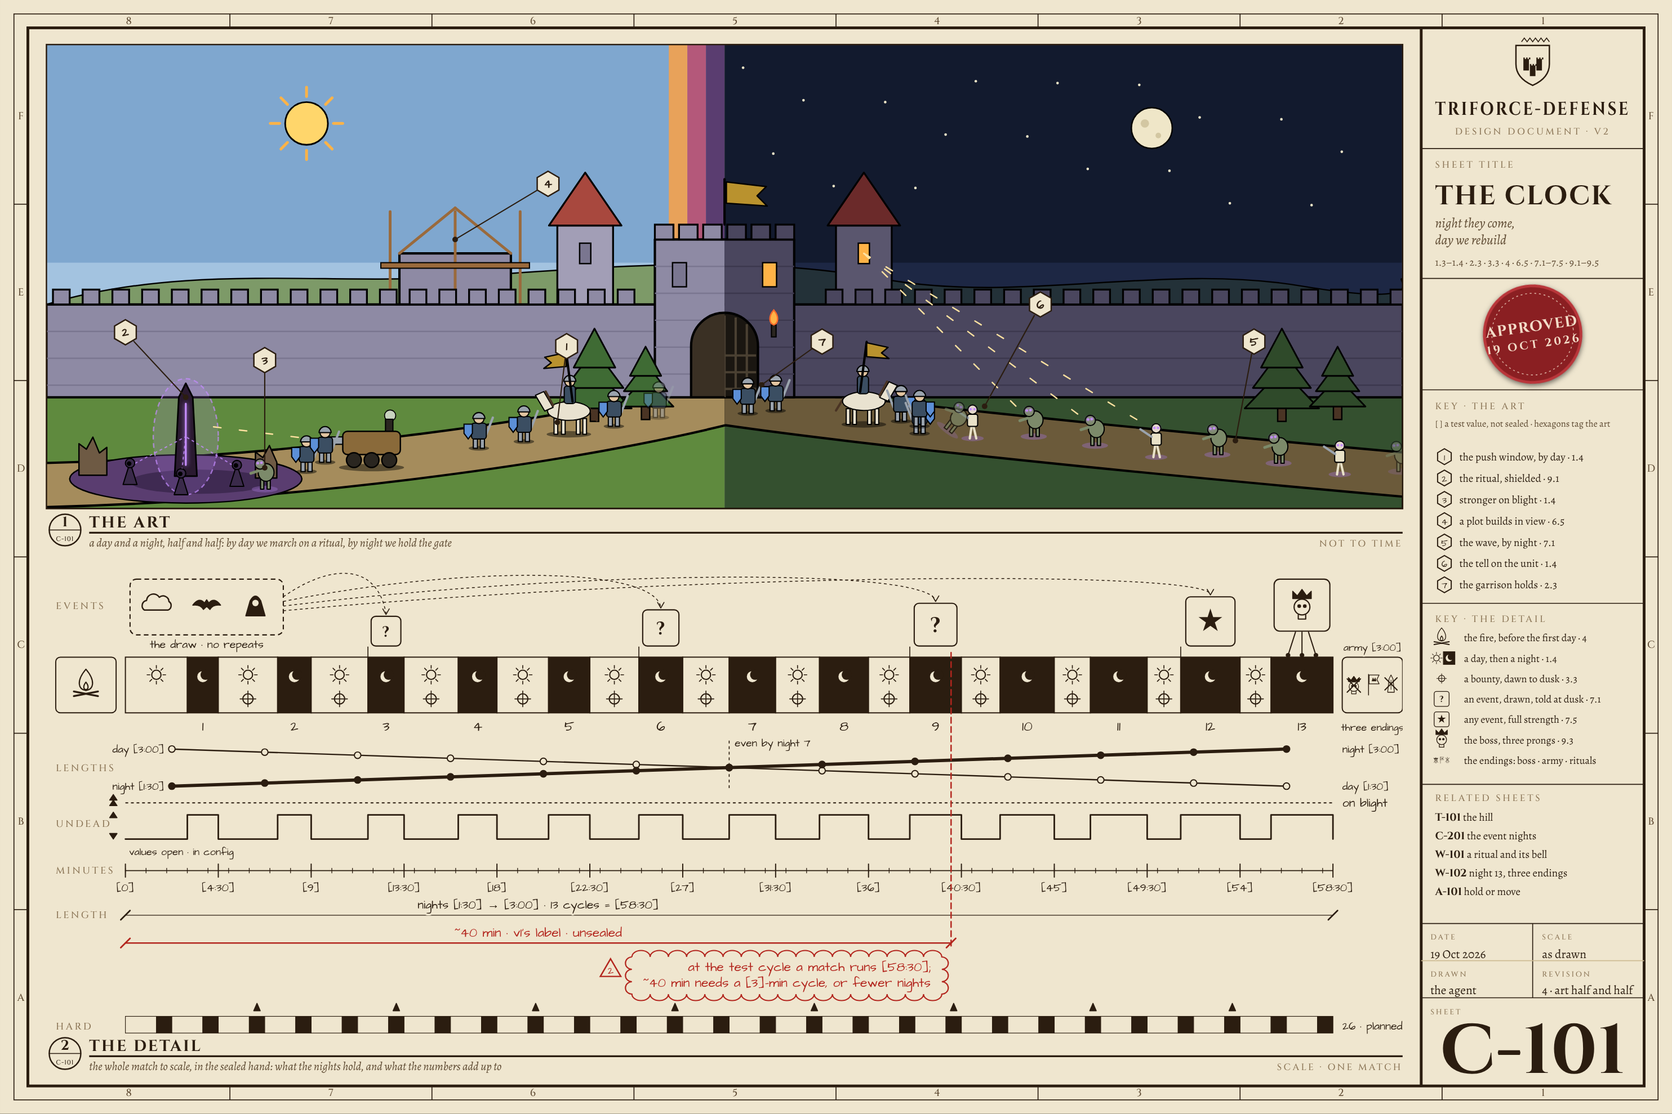
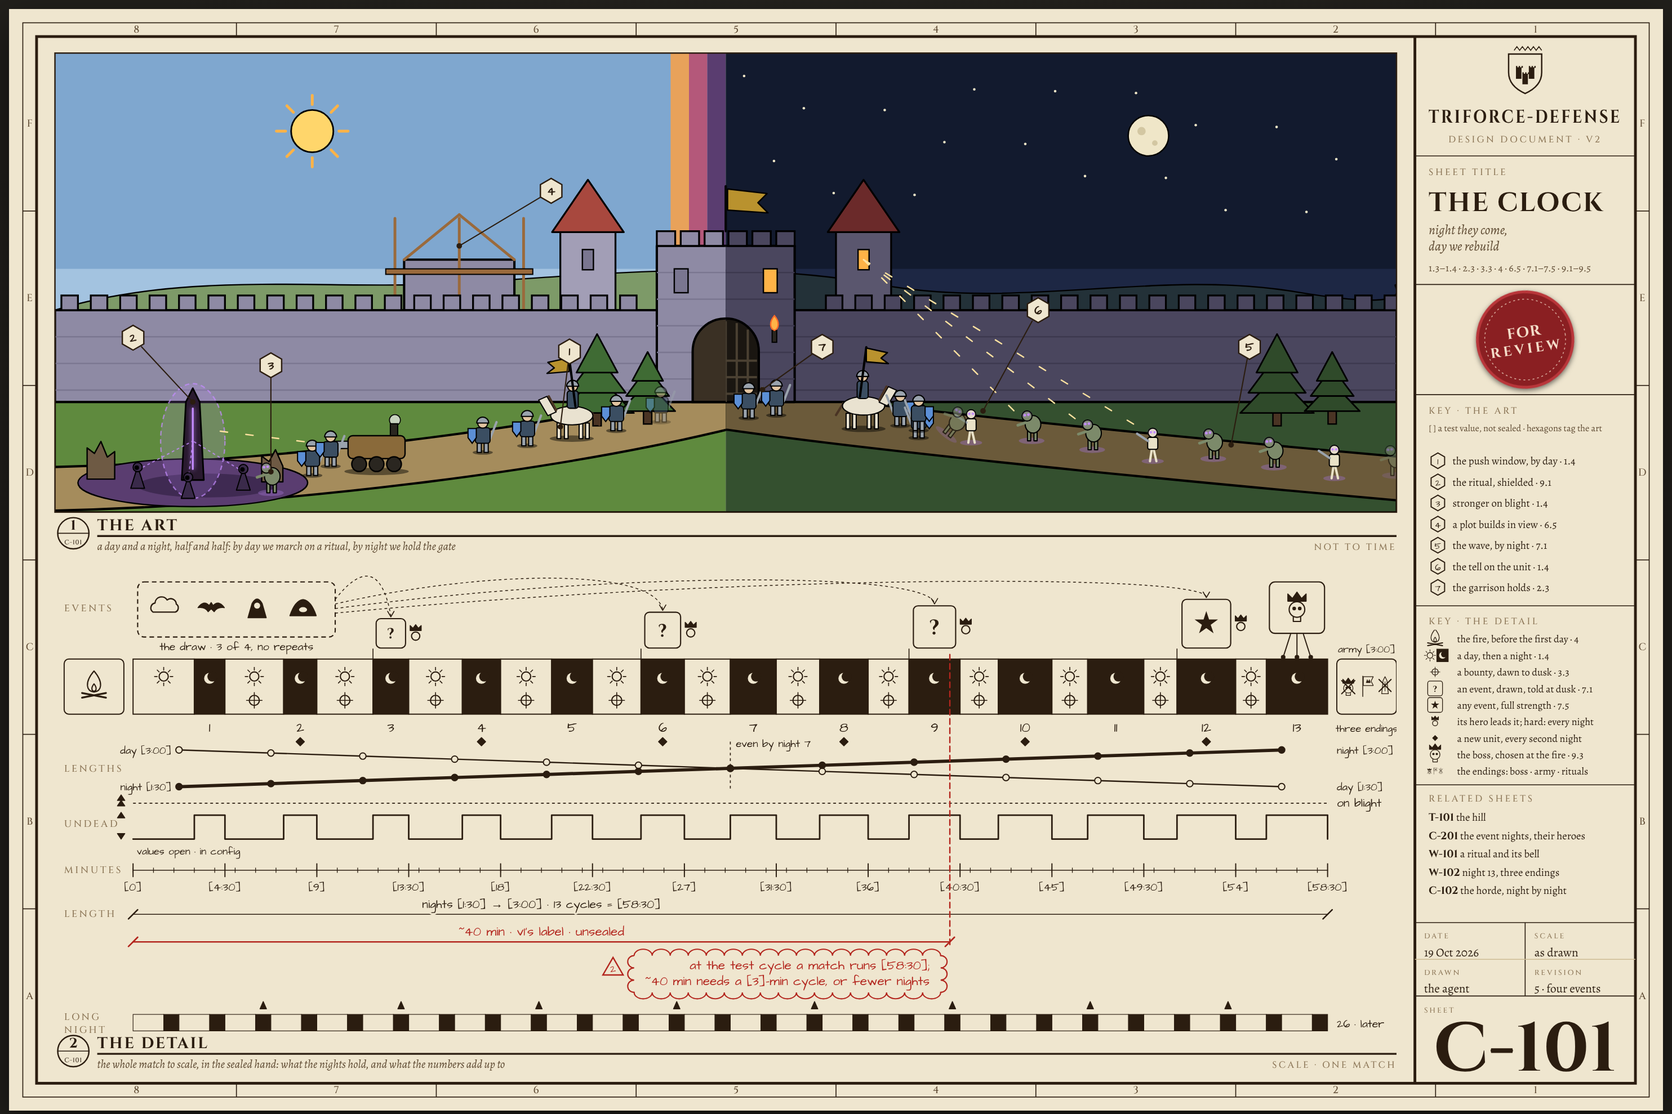
C-101 amended: four events, each led by its hero; the add nights; the boss chosen at the fire; the long night
Claude-Session: https://claude.ai/code/session_0171ubkrirX9kEJ21GccUo3u

diff --git a/design/v2/sheet_clock.js b/design/v2/sheet_clock.js
@@ -3,8 +3,9 @@
               a ritual and breaks it; by night the same forces hold the gate against the horde. The same
               town is drawn twice, relit by the cascade (.lit-day / .lit-night). It has its own loop and
               is not bound to the numbers (owner, 19 Oct): it tells the story; the detail carries the change.
-   THE DETAIL the whole match to scale, from MODELS.clock, in the sealed hand (drafting vellum): events,
-              the finale and its three endings, bounties, each cycle's day and night (the days shrink, the
+   THE DETAIL the whole match to scale, from MODELS.clock, in the sealed hand (drafting vellum): the four
+              events, three drawn, each led by its hero (C-201); the add nights (C-102); the finale (the boss
+              chosen at the fire) and its three endings; bounties; each cycle's day and night (the days shrink, the
               nights grow), the undead's strength, minutes, and what the numbers add up to. Its playhead
               walks the match.
    Reduced motion, print and ?motion=still show the still. */
@@ -165,17 +166,11 @@
   const ST = 220, SB = 340;                                      // the strip's top and bottom
 
   // row labels
-  [['events', 116], ['lengths', 466], ['undead', 586], ['minutes', 686], ['length', 782], ['hard', 1022]].forEach(([s, y]) => text(S, 20, y, s, 'sc-kick'));
+  [['events', 116], ['lengths', 466], ['undead', 586], ['minutes', 686], ['length', 782], ['long', 1006], ['night', 1034]].forEach(([s, y]) => text(S, 20, y, s, 'sc-kick'));
 
   // glyphs, drawn in ink at a centre
   const glyph = {
-    fog: (g, x, y, s) => el('path', { d: `M${x - 22 * s} ${y + 8 * s} a10 10 0 0 1 4 -18 a13 13 0 0 1 24 -6 a11 11 0 0 1 18 8 a9 9 0 0 1 -2 16 Z`, class: 'sc-glyph', transform: `translate(${x} ${y}) scale(${s}) translate(${-x} ${-y})` }, g),
-    air: (g, x, y, s) => el('path', { d: `M${x - 26} ${y} Q${x - 14} ${y - 16} ${x - 4} ${y - 4} L${x} ${y - 10} L${x + 4} ${y - 4} Q${x + 14} ${y - 16} ${x + 26} ${y} Q${x + 12} ${y - 2} ${x + 6} ${y + 8} L${x} ${y + 2} L${x - 6} ${y + 8} Q${x - 12} ${y - 2} ${x - 26} ${y} Z`, class: 'sc-glyphf', transform: `translate(${x} ${y}) scale(${s}) translate(${-x} ${-y})` }, g),
-    insurgents: (g, x, y, s) => {
-      const t = `translate(${x} ${y}) scale(${s}) translate(${-x} ${-y})`;
-      el('path', { d: `M${x - 18} ${y + 20} L${x - 10} ${y - 8} Q${x} ${y - 26} ${x + 10} ${y - 8} L${x + 18} ${y + 20} Z`, class: 'sc-glyphf', transform: t }, g);
-      el('circle', { cx: x, cy: y - 4, r: 6, class: 'sc-pip', transform: t }, g);
-    },
+    ...window.WALL.EVENT,                                         // the four events' glyphs, shared (C-201)
     sun: (g, x, y) => { el('circle', { cx: x, cy: y, r: 10, class: 'sc-glyph' }, g); for (let i = 0; i < 8; i++) { const a = i * Math.PI / 4; el('line', { x1: x + 14 * Math.cos(a), y1: y + 14 * Math.sin(a), x2: x + 20 * Math.cos(a), y2: y + 20 * Math.sin(a), class: 'sc-glyph', style: 'stroke-width:2' }, g); } },
     moon: (g, x, y) => { el('circle', { cx: x, cy: y, r: 12, class: 'sc-pip' }, g); el('circle', { cx: x + 6, cy: y - 4, r: 11, class: 'sc-ink' }, g); },
     bounty: (g, x, y) => { el('circle', { cx: x, cy: y, r: 11, class: 'sc-glyph' }, g); el('path', { d: `M${x - 17} ${y} H${x + 17} M${x} ${y - 17} V${y + 17}`, class: 'sc-glyph', style: 'stroke-width:2' }, g); },
@@ -190,22 +185,28 @@
       mini((m, cx, cy) => glyph.banner(m, cx, cy), 0);
       mini((m, cx, cy) => { glyph.obelisk(m, cx, cy); glyph.cross(m, cx, cy - 4, 22); }, 40);
     },
+    // a hero: crowned, smaller than the boss (C-201: each event's hero leads it)
+    hero: (g, x, y) => { el('path', { d: `M${x - 12} ${y - 6} L${x - 12} ${y - 17} L${x - 6} ${y - 11} L${x} ${y - 19} L${x + 6} ${y - 11} L${x + 12} ${y - 17} L${x + 12} ${y - 6} Z`, class: 'sc-glyphf' }, g); el('circle', { cx: x, cy: y + 6, r: 9, class: 'sc-glyph' }, g); },
+    // a new unit, every second night (C-102)
+    add: (g, x, y) => el('path', { d: `M${x} ${y - 9} l9 9 l-9 9 l-9 -9 Z`, class: 'sc-glyphf' }, g),
     boss: (g, x, y) => { el('path', { d: `M${x - 20} ${y - 18} L${x - 20} ${y - 34} L${x - 10} ${y - 24} L${x} ${y - 38} L${x + 10} ${y - 24} L${x + 20} ${y - 34} L${x + 20} ${y - 18} Z`, class: 'sc-glyphf' }, g); el('circle', { cx: x, cy: y, r: 17, class: 'sc-glyph' }, g); el('circle', { cx: x - 6, cy: y - 2, r: 4, class: 'sc-ink' }, g); el('circle', { cx: x + 6, cy: y - 2, r: 4, class: 'sc-ink' }, g); el('path', { d: `M${x - 8} ${y + 17} V${y + 26} H${x + 8} V${y + 17}`, class: 'sc-glyph' }, g); }
   };
 
-  // events: the pool, drawn three ways onto nights 3, 6, 9; night 12 any of them, full strength.
-  // The cards grow with the night: weakest first, strongest last (7.5).
-  el('rect', { x: X0 + 10, y: 52, width: 330, height: 120, rx: 14, class: 'sc-card', style: 'stroke-dasharray:10 7' }, S);
-  C.events.pool.forEach((e, i) => glyph[e](S, X0 + 70 + i * 105, 108, 1.15));
-  text(S, X0 + 175, 200, 'the draw · no repeats', 'ln-lbl', 'middle').style.fontSize = '24px';
+  // events: the pool of four, three drawn onto nights 3, 6, 9; night 12 any of them, full strength (7.1, amended
+  // 19 Oct). The cards grow with the night: weakest first, strongest last (7.5). Each event's hero leads it (C-201)
+  const PW = 30 + C.events.pool.length * 100;
+  el('rect', { x: X0 + 10, y: 52, width: PW, height: 120, rx: 14, class: 'sc-card', style: 'stroke-dasharray:10 7' }, S);
+  C.events.pool.forEach((e, i) => glyph[e](S, X0 + 70 + i * 100, 108, 1.1));
+  text(S, X0 + 10 + PW / 2, 200, `the draw · ${C.events.draws.length} of ${C.events.pool.length}, no repeats`, 'ln-lbl', 'middle').style.fontSize = '24px';
   const cards = {};
   [...C.events.draws, C.events.last].forEach((k, i) => {
     const s = 64 + i * 14, cx = nightC(k), top = 196 - s;
-    el('path', { d: `M${X0 + 340} ${90 + i * 10} C ${X0 + 340 + (cx - X0 - 340) * .45} ${20 + i * 6}, ${cx - 20} ${14 + i * 6}, ${cx} ${top - 6}`, class: 'ln-ext', style: 'stroke-width:1.8' }, S);
+    el('path', { d: `M${X0 + 10 + PW} ${90 + i * 10} C ${X0 + 10 + PW + (cx - X0 - 10 - PW) * .45} ${20 + i * 6}, ${cx - 20} ${14 + i * 6}, ${cx} ${top - 6}`, class: 'ln-ext', style: 'stroke-width:1.8' }, S);
     el('path', { d: `M${cx - 7} ${top - 16} L${cx} ${top - 4} L${cx + 7} ${top - 16}`, class: 'sc-glyph', style: 'stroke-width:2' }, S);
     cards[k] = el('rect', { x: cx - s / 2, y: top, width: s, height: s, rx: 10, class: 'sc-card' }, S);
     text(S, cx, top + s / 2 + 2, k === C.events.last ? '★' : '?', 'sc-q', 'middle').style.fontSize = (s * .5) + 'px';
     el('line', { x1: duskX(k), y1: 198, x2: duskX(k), y2: ST, class: 'sc-glyph', style: 'stroke-width:2' }, S);   // announced at dusk
+    glyph.hero(S, cx + s / 2 + 22, top + s / 2);                // its hero leads it, at the dusk roll's town
   });
 
   // night 13: the boss on the middle road, a lieutenant on each town's road (9.3 · 9.4)
@@ -229,6 +230,8 @@
     glyph.moon(S, x + dw + nw / 2, 262);
     text(S, x + dw + nw / 2, 378, String(k), 'sc-num');
   }
+  const HM = window.MODELS.horde;                                // a new unit, every second night (C-102)
+  if (HM) for (let k = HM.adds.first; k < C.finale.night; k += HM.adds.every) glyph.add(S, nightC(k), 400);
   // the end: night 13 has no dawn of its own; it ends one of three ways (1.3 · 9.5, amended)
   el('rect', { x: X1 + 20, y: ST, width: 130, height: SB - ST, rx: 10, class: 'sc-day' }, S);
   glyph.endings(S, X1 + 85, 280);
@@ -309,20 +312,21 @@
   el('path', { d: `M${fx} ${cy0 + 4} l22 38 h-44 Z`, class: 'rl-cloud', style: 'stroke-width:3' }, S);
   text(S, fx, cy0 + 36, '2', 'rl-lbl', 'middle').style.fontSize = '22px';
 
-  // hard mode, planned: 26 nights, an event every third night (not to the time scale above)
-  const HW = (X1 - X0) / C.hard.nights, HD = DAY[0] / CYC;
-  for (let k = 1; k <= C.hard.nights; k++) {
+  // the long night, later (v1's hard mode, renamed: hard is now the difficulty dial): 26 nights, an event every
+  // third night (not to the time scale above)
+  const HW = (X1 - X0) / C.long.nights, HD = DAY[0] / CYC;
+  for (let k = 1; k <= C.long.nights; k++) {
     const x = X0 + (k - 1) * HW;
     el('rect', { x, y: 994, width: HW * HD, height: 36, class: 'sc-day', style: 'stroke-width:1.4' }, S);
     el('rect', { x: x + HW * HD, y: 994, width: HW * (1 - HD), height: 36, class: 'sc-night', style: 'stroke-width:1.4' }, S);
-    if (k % C.hard.every === 0) el('path', { d: `M${x + HW * (1 + HD) / 2} 966 l7 16 h-14 Z`, class: 'sc-glyphf' }, S);
+    if (k % C.long.every === 0) el('path', { d: `M${x + HW * (1 + HD) / 2} 966 l7 16 h-14 Z`, class: 'sc-glyphf' }, S);
   }
-  text(S, X1 + 20, 1022, `${C.hard.nights} · planned`, 'ln-lbl').style.fontSize = '24px';
+  text(S, X1 + 20, 1022, `${C.long.nights} · later`, 'ln-lbl').style.fontSize = '24px';
 
   // the detail's key, in the title block, drawn with the same glyphs
   const keyd = document.getElementById('keyd');
   const row = (i, draw, label) => {
-    const y = 22 + i * 44;
+    const y = 20 + i * 36;
     const g = el('g', { transform: `translate(44 ${y}) scale(.62) translate(-44 ${-y})` }, keyd);
     draw(g, 44, y);
     text(keyd, 92, y + 8, label, 'tb-text').style.fontSize = '22px';
@@ -333,8 +337,10 @@
   row(2, glyph.bounty, 'a bounty, dawn to dusk · 3.3');
   row(3, card('?'), 'an event, drawn, told at dusk · 7.1');
   row(4, card('★'), 'any event, full strength · 7.5');
-  row(5, glyph.boss, 'the boss, three prongs · 9.3');
-  row(6, (g, x, y) => glyph.endings(el('g', { transform: `translate(${x} ${y}) scale(.5) translate(${-x} ${-y})` }, g), x, y), 'the endings: boss · army · rituals');
+  row(5, glyph.hero, 'its hero leads it; hard: every night');
+  row(6, glyph.add, 'a new unit, every second night');
+  row(7, glyph.boss, 'the boss, chosen at the fire · 9.3');
+  row(8, (g, x, y) => glyph.endings(el('g', { transform: `translate(${x} ${y}) scale(.5) translate(${-x} ${-y})` }, g), x, y), 'the endings: boss · army · rituals');
 
   // the playhead (screen only)
   const now = el('rect', { x: X0, y: ST - 6, width: xAt(CYC) - X0, height: SB - ST + 12, class: 'sc-now hidden' }, det);

diff --git a/design/v2/C-101.html b/design/v2/C-101.html
@@ -11,8 +11,8 @@
 <body>
 <main class="sheet">
   <svg viewBox="0 0 3600 2400" aria-labelledby="c101-title" aria-describedby="c101-desc">
-    <title id="c101-title">Sheet C-101, the clock: night they come, day we rebuild. Approved 19 October 2026.</title>
-    <desc id="c101-desc">Top, the art: a day and a night, half and half and not to time. By day the field force marches out of the gate on a ritual obelisk on blight, an engine shelling it and footmen on its acolytes, while peasants raise a plot behind the wall; by night the captain, the field force and the garrison hold the gate as ghouls and skeletons with glowing eyes come down the road and fall. Bottom, the detail, to scale: the thirteen-night match; event nights 3, 6 and 9 drawn from the pool without repeats, night 12 any event at full strength, night 13 the boss and three lieutenants with no dawn of its own, ending one of three ways (the captains kill the boss, the King’s army arrives, or the rituals were broken); a bounty every dawn; a row of each cycle's lengths, days shrinking from three minutes to one and a half as nights grow from one and a half to three, even by night 7; the undead's day and night strength; minutes; and the total, 58 and a half minutes, against v1's label of about 40, marked in red.</desc>
+    <title id="c101-title">Sheet C-101, the clock: night they come, day we rebuild. Amended for the four events and their heroes; for review.</title>
+    <desc id="c101-desc">Top, the art: a day and a night, half and half and not to time. By day the field force marches out of the gate on a ritual obelisk on blight, an engine shelling it and footmen on its acolytes, while peasants raise a plot behind the wall; by night the captain, the field force and the garrison hold the gate as ghouls and skeletons with glowing eyes come down the road and fall. Bottom, the detail, to scale: the thirteen-night match; event nights 3, 6 and 9 drawn from a pool of four (the evil fog, the air raid, the insurgents, the burrow) without repeats, each led by its hero, night 12 any event at full strength; a diamond on every second night for a new unit; night 13 the boss, chosen at the fire, and three lieutenants with no dawn of its own, ending one of three ways (the captains kill the boss, the King’s army arrives, or the rituals were broken); a bounty every dawn; a row of each cycle's lengths, days shrinking from three minutes to one and a half as nights grow from one and a half to three, even by night 7; the undead's day and night strength; minutes; and the total, 58 and a half minutes, against v1's label of about 40, marked in red; and below, the long night, 26 nights with an event every third, later.</desc>
     <rect class="paper" width="3600" height="2400"/>
     <rect class="border-2" x="30" y="30" width="3540" height="2340"/>
     <rect class="border" x="60" y="60" width="3480" height="2280"/>
@@ -82,7 +82,7 @@
 
     <g transform="translate(3300 720) rotate(-8)">
       <circle class="seal" r="104"/><circle class="seal-ring" r="88"/>
-      <text class="seal-t" y="-6">APPROVED</text><text class="seal-s" y="30" style="font-size:24px">19 OCT 2026</text>
+      <text class="seal-t" y="-6">FOR</text><text class="seal-s" y="30">REVIEW</text>
     </g>
     <line class="rule" x1="3060" y1="840" x2="3540" y2="840"/>
 
@@ -103,10 +103,10 @@
 
     <text class="tb-kick" x="3090" y="1726">related sheets</text>
     <text class="tb-text" x="3090" y="1768" style="font-size:23px"><tspan style="font-family:var(--display);font-weight:700">T-101</tspan>  the hill</text>
-    <text class="tb-text" x="3090" y="1808" style="font-size:23px"><tspan style="font-family:var(--display);font-weight:700">C-201</tspan>  the event nights</text>
+    <text class="tb-text" x="3090" y="1808" style="font-size:23px"><tspan style="font-family:var(--display);font-weight:700">C-201</tspan>  the event nights, their heroes</text>
     <text class="tb-text" x="3090" y="1848" style="font-size:23px"><tspan style="font-family:var(--display);font-weight:700">W-101</tspan>  a ritual and its bell</text>
     <text class="tb-text" x="3090" y="1888" style="font-size:23px"><tspan style="font-family:var(--display);font-weight:700">W-102</tspan>  night 13, three endings</text>
-    <text class="tb-text" x="3090" y="1928" style="font-size:23px"><tspan style="font-family:var(--display);font-weight:700">A-101</tspan>  hold or move</text>
+    <text class="tb-text" x="3090" y="1928" style="font-size:23px"><tspan style="font-family:var(--display);font-weight:700">C-102</tspan>  the horde, night by night</text>
     <line class="rule" x1="3060" y1="1990" x2="3540" y2="1990"/>
 
     <line class="rule" x1="3300" y1="1990" x2="3300" y2="2150"/>
@@ -114,7 +114,7 @@
     <text class="tb-kick" x="3320" y="2024" style="font-size:16px">scale</text><text class="tb-text" x="3320" y="2064">as drawn</text>
     <line class="rule-2" x1="3060" y1="2070" x2="3540" y2="2070"/>
     <text class="tb-kick" x="3080" y="2104" style="font-size:16px">drawn</text><text class="tb-text" x="3080" y="2142">the agent</text>
-    <text class="tb-kick" x="3320" y="2104" style="font-size:16px">revision</text><text class="tb-text" x="3320" y="2142">4 · art half and half</text>
+    <text class="tb-kick" x="3320" y="2104" style="font-size:16px">revision</text><text class="tb-text" x="3320" y="2142">5 · four events</text>
     <line class="rule" x1="3060" y1="2150" x2="3540" y2="2150"/>
     <text class="tb-kick" x="3080" y="2186" style="font-size:16px">sheet</text>
     <text class="tb-num" x="3300" y="2312" textLength="400" lengthAdjust="spacingAndGlyphs">C-101</text>
@@ -122,6 +122,7 @@
 </main>
 <script src="figures.js"></script>
 <script src="model_clock.js"></script>
+<script src="model_horde.js"></script>
 <script src="wallsheet.js"></script>
 <script src="sheet_clock.js"></script>
 </body>

diff --git a/design/v2/wallsheet.js b/design/v2/wallsheet.js
@@ -241,7 +241,23 @@
   }
 
   // the pieces other sheets build with (sheet_clock.js and the like)
-  window.WALL = { el, pts, shape, render, text, crispPen };
+  /* the event nights' glyphs, drawn in ink at a centre (7.2-7.4, C-101's; the burrow, 19 Oct). Shared by the sheets
+     that name an event: C-101's clock, C-201's draw */
+  const at = (x, y, s) => `translate(${x} ${y}) scale(${s}) translate(${-x} ${-y})`;
+  const EVENT = {
+    fog: (g, x, y, s) => el('path', { d: `M${x - 22 * s} ${y + 8 * s} a10 10 0 0 1 4 -18 a13 13 0 0 1 24 -6 a11 11 0 0 1 18 8 a9 9 0 0 1 -2 16 Z`, class: 'sc-glyph', transform: at(x, y, s) }, g),
+    air: (g, x, y, s) => el('path', { d: `M${x - 26} ${y} Q${x - 14} ${y - 16} ${x - 4} ${y - 4} L${x} ${y - 10} L${x + 4} ${y - 4} Q${x + 14} ${y - 16} ${x + 26} ${y} Q${x + 12} ${y - 2} ${x + 6} ${y + 8} L${x} ${y + 2} L${x - 6} ${y + 8} Q${x - 12} ${y - 2} ${x - 26} ${y} Z`, class: 'sc-glyphf', transform: at(x, y, s) }, g),
+    insurgents: (g, x, y, s) => {
+      el('path', { d: `M${x - 18} ${y + 20} L${x - 10} ${y - 8} Q${x} ${y - 26} ${x + 10} ${y - 8} L${x + 18} ${y + 20} Z`, class: 'sc-glyphf', transform: at(x, y, s) }, g);
+      el('circle', { cx: x, cy: y - 4, r: 6, class: 'sc-pip', transform: at(x, y, s) }, g);
+    },
+    burrow: (g, x, y, s) => {
+      el('path', { d: `M${x - 26} ${y + 16} Q${x - 16} ${y - 14} ${x} ${y - 16} Q${x + 16} ${y - 14} ${x + 26} ${y + 16} Z`, class: 'sc-glyphf', transform: at(x, y, s) }, g);
+      el('ellipse', { cx: x, cy: y + 4, rx: 8, ry: 5, class: 'sc-pip', transform: at(x, y, s) }, g);
+    }
+  };
+
+  window.WALL = { el, pts, shape, render, text, crispPen, EVENT };
 
   const start = () => document.querySelectorAll('svg.view[data-model]').forEach(cutaway);
   // the pencil's lettering and the rough lines read fonts and tokens; wait for both

diff --git a/design/v2/town.js b/design/v2/town.js
@@ -385,21 +385,5 @@
     if (cells.special) into(X(M.specialAt[0]), Y(M.specialAt[1]) - 22 * kp / .65 * .7 - 4, -1);
   };
 
-  /* the event nights' glyphs, drawn in ink at a centre (7.2-7.4, C-101's; the burrow, 19 Oct). Shared by the sheets
-     that name an event: C-101's clock, C-201's draw */
-  const at = (x, y, s) => `translate(${x} ${y}) scale(${s}) translate(${-x} ${-y})`;
-  const EVENT = {
-    fog: (g, x, y, s) => el('path', { d: `M${x - 22 * s} ${y + 8 * s} a10 10 0 0 1 4 -18 a13 13 0 0 1 24 -6 a11 11 0 0 1 18 8 a9 9 0 0 1 -2 16 Z`, class: 'sc-glyph', transform: at(x, y, s) }, g),
-    air: (g, x, y, s) => el('path', { d: `M${x - 26} ${y} Q${x - 14} ${y - 16} ${x - 4} ${y - 4} L${x} ${y - 10} L${x + 4} ${y - 4} Q${x + 14} ${y - 16} ${x + 26} ${y} Q${x + 12} ${y - 2} ${x + 6} ${y + 8} L${x} ${y + 2} L${x - 6} ${y + 8} Q${x - 12} ${y - 2} ${x - 26} ${y} Z`, class: 'sc-glyphf', transform: at(x, y, s) }, g),
-    insurgents: (g, x, y, s) => {
-      el('path', { d: `M${x - 18} ${y + 20} L${x - 10} ${y - 8} Q${x} ${y - 26} ${x + 10} ${y - 8} L${x + 18} ${y + 20} Z`, class: 'sc-glyphf', transform: at(x, y, s) }, g);
-      el('circle', { cx: x, cy: y - 4, r: 6, class: 'sc-pip', transform: at(x, y, s) }, g);
-    },
-    burrow: (g, x, y, s) => {
-      el('path', { d: `M${x - 26} ${y + 16} Q${x - 16} ${y - 14} ${x} ${y - 16} Q${x + 16} ${y - 14} ${x + 26} ${y + 16} Z`, class: 'sc-glyphf', transform: at(x, y, s) }, g);
-      el('ellipse', { cx: x, cy: y + 4, rx: 8, ry: 5, class: 'sc-pip', transform: at(x, y, s) }, g);
-    }
-  };
-
-  window.TOWN = { text, KIND, OPTION, town, box, icon, arrow, step, plans, ROMAN, treeParts, ROLE, EVENT };
+  window.TOWN = { text, KIND, OPTION, town, box, icon, arrow, step, plans, ROMAN, treeParts, ROLE };
 })();

diff --git a/design/v2/model_clock.js b/design/v2/model_clock.js
@@ -24,7 +24,8 @@
     // Nights 3, 6, 9 draw the three events in a random order, no repeats; night 12 draws any, at full
     // strength. Everything scales with which event night it is: weakest first, strongest last.
     events: {
-      pool: ['fog', 'air', 'insurgents'],          // 7.2 the evil fog · 7.3 the air raid · 7.4 the insurgents
+      // 7.2 the evil fog · 7.3 the air raid · 7.4 the insurgents · the burrow (7.1 amended, 19 Oct: four, three drawn)
+      pool: ['fog', 'air', 'insurgents', 'burrow'],
       draws: [3, 6, 9],
       last: 12,
       announced: 'dusk'
@@ -49,7 +50,9 @@
     // visible tell on the unit. The values live in config and are open.
     undead: { day: -1, night: 1, blight: 2, values: null },
 
-    // v1 ch.7: hard mode, 26 nights, an event every third night, repeats allowed. Planned.
-    hard: { nights: 26, every: 3, planned: true }
+    // v1 ch.7's hard mode, 26 nights, an event every third night, repeats allowed: renamed the long night (19 Oct),
+    // since hard is now the difficulty dial (normal, hard: the night's aura, a hero every night, the Frost Wyrm). Later
+    long: { nights: 26, every: 3, planned: true },
+    difficulty: ['normal', 'hard']
   };
 })();

diff --git a/design/v2/sheet_c201.js b/design/v2/sheet_c201.js
@@ -8,7 +8,7 @@
 (function () {
   (document.fonts ? Promise.all([...document.fonts].map((f) => f.load().catch(() => null))).then(() => document.fonts.ready) : Promise.resolve()).then(draw);
   function draw() {
-  const { el, render } = window.WALL, F = window.FIG, { text, EVENT } = window.TOWN;
+  const { el, render, EVENT } = window.WALL, F = window.FIG, { text } = window.TOWN;
   const EV = window.MODELS.events, CL = window.MODELS.clock;
   const lbl = (g, x, y, s, anchor, size) => text(g, x, y, s, 'pl-lbl', anchor, size || 24);
   const motion = document.documentElement.dataset.motion;

diff --git a/design/v2/README.md b/design/v2/README.md
@@ -26,7 +26,7 @@ Add `?motion=data` to keep only what the numbers drive, or `?motion=still` to se
 | A-102 | defeat: the breach and the sack | 2.7 | to come |
 | H-101 · H-102 · H-103 | the Bombardier · the Marshal · the Prelate | 8 | to come |
 | H-201 | the free ability, the stat chase | 8.5 | to come |
-| C-101 | the clock | 1.3–1.4 · 3.3 · 6.5 · 7 · 9 | **approved** (was X-002) |
+| C-101 | the clock | 1.3–1.4 · 3.3 · 6.5 · 7 · 9 · `docs/HORDE.md` | **amended**, for review (approved 19 Oct; revision 5: four events and their heroes) |
 | C-102 | the horde, night by night | 1.4 · 7 · `docs/HORDE.md` | **approved** |
 | C-201 | the event nights and their heroes | 7.1–7.5 · `docs/HORDE.md` | **approved** |
 | W-101 | a ritual and its bell | 9.1 · 9.2 | to come |
